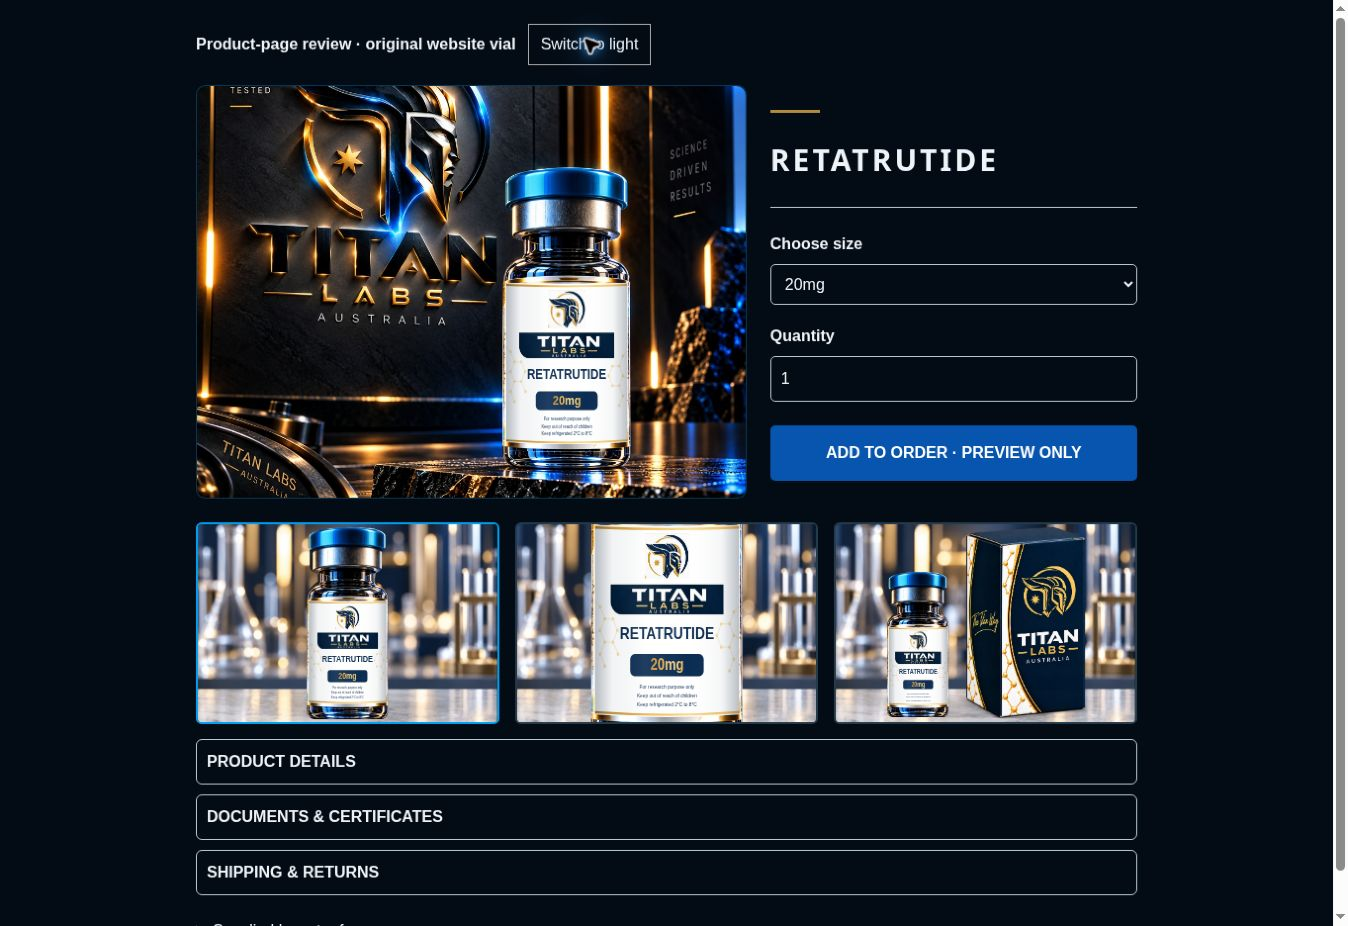
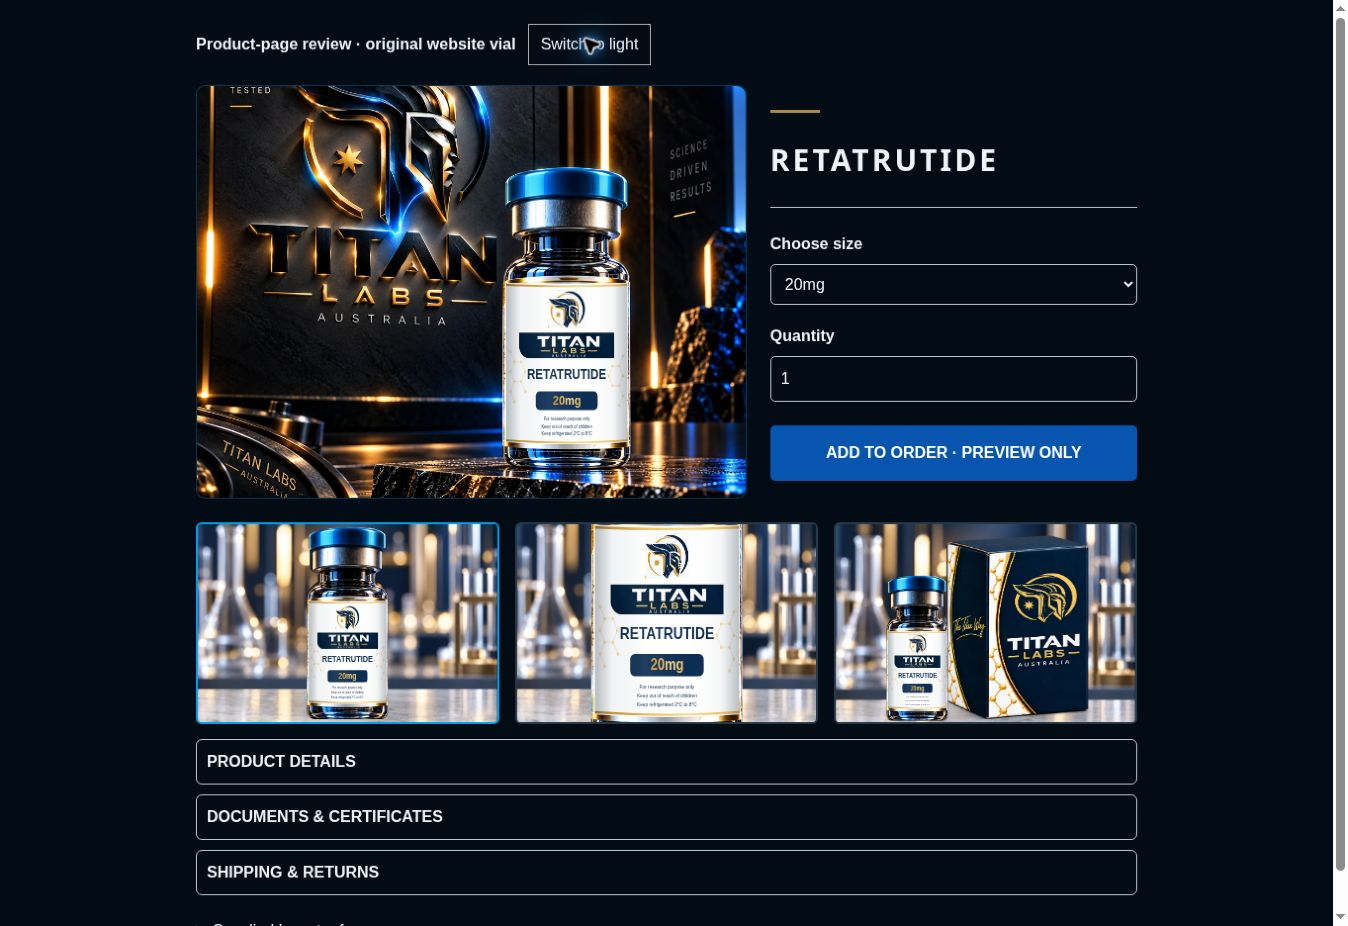
Match boxed thumbnail framing, overlap and bench level to supplied reference

Changed region(s): [[0.592, 0.5443, 0.8412, 0.7862]]

diff --git a/src/components/RangeProductArt.tsx b/src/components/RangeProductArt.tsx
@@ -336,7 +336,8 @@ export function RangeProductArt({
             <image
               href={`${root}laboratory-scene.webp`}
               width="1200"
-              height="800"
+              height={view === "boxed" ? 1200 : 800}
+              y={view === "boxed" ? -157 : 0}
               preserveAspectRatio="xMidYMid slice"
             />
           </g>
@@ -344,7 +345,8 @@ export function RangeProductArt({
             <image
               href={`${root}laboratory-scene-light.webp`}
               width="1200"
-              height="800"
+              height={view === "boxed" ? 1200 : 800}
+              y={view === "boxed" ? -157 : 0}
               preserveAspectRatio="xMidYMid slice"
             />
           </g>
@@ -359,12 +361,12 @@ export function RangeProductArt({
           ) : view === "boxed" ? (
             <>
               <svg
-                x="480"
-                y="0"
-                width="550"
-                height="780"
+                x="410"
+                y="35"
+                width="620"
+                height="750"
                 viewBox="230 35 800 1200"
-                preserveAspectRatio="xMidYMax meet"
+                preserveAspectRatio="none"
               >
                 <image
                   href={`${root}box-front.webp`}
@@ -375,8 +377,8 @@ export function RangeProductArt({
               <Vial
                 product={product}
                 variant={selected}
-                x={200}
-                y={190}
+                x={197}
+                y={205}
                 height={590}
               />
             </>

diff --git a/docs/review/vial-reference-correction/README.md b/docs/review/vial-reference-correction/README.md
@@ -24,3 +24,7 @@ The Range product page has a 3:2 photo/details column ratio. Three 3:2 thumbnail
 - No application console errors observed. No database, CMS, pricing, stock or payment changes.
 
 The screenshots in this directory supersede the earlier rejected screenshots on this PR.
+
+## Third-thumbnail framing refinement
+
+The latest supplied vial-and-box reference is shown beside the updated composition in `boxed-light.jpg` and `boxed-dark.jpg`. The approved current carton artwork is retained. Its framing is wider and moved closer behind the original reflective vial, with slight overlap and the vial in front-left. The laboratory background is reframed to lower the bench horizon. The main image, first two thumbnails and gallery-row placement are unchanged by this refinement.
